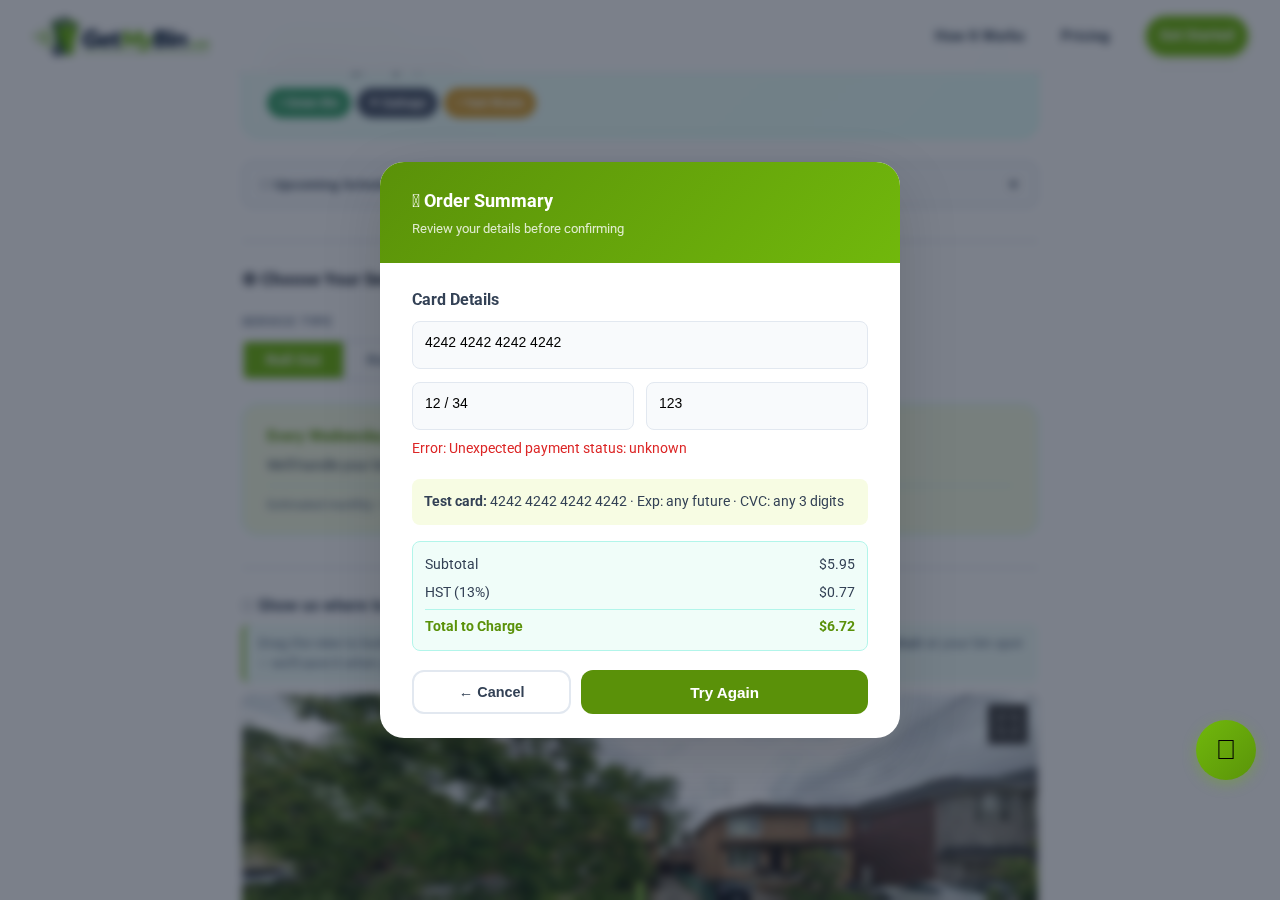
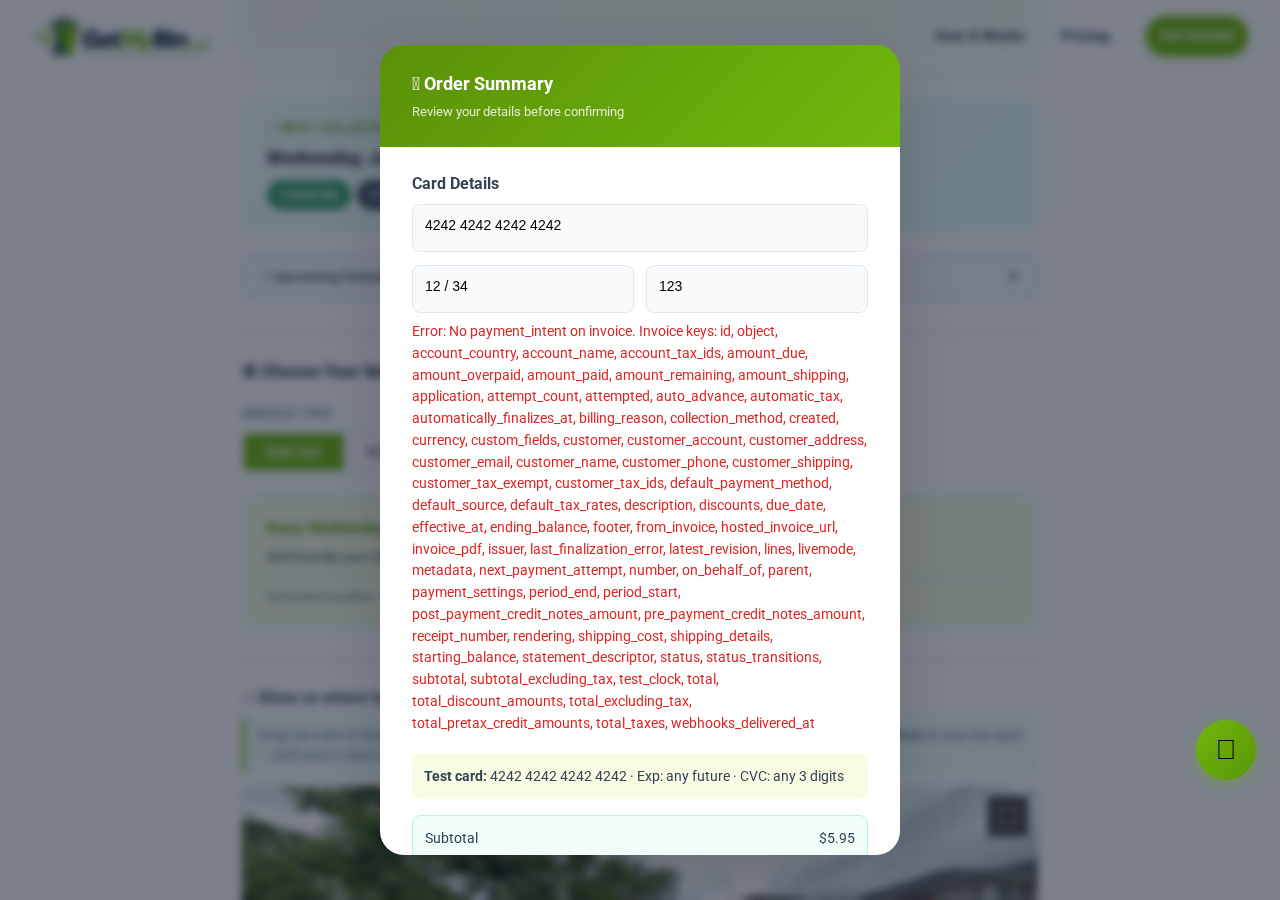
Fix expand: pass as URL query param instead of http_build_query

diff --git a/public_html/api/create-subscription.php b/public_html/api/create-subscription.php
@@ -104,9 +104,7 @@ $subscriptionId = $subscription['id'];
 $invoiceId      = $subscription['latest_invoice']; // string ID
 
 // Step 5: Retrieve invoice to get payment_intent (expand didn't work via form-urlencoded)
-$invoiceResult = stripeRequest('GET', "/invoices/$invoiceId", [
-    'expand[0]' => 'payment_intent',
-]);
+$invoiceResult = stripeRequest('GET', "/invoices/$invoiceId?expand[]=payment_intent");
 
 if ($invoiceResult['code'] >= 400) {
     $errorMsg = $invoiceResult['body']['error']['message'] ?? 'Failed to retrieve invoice';

diff --git a/test-results/full-checkout-flow-Recurring-Roll-Out-desktop/error-context.md b/test-results/full-checkout-flow-Recurring-Roll-Out-desktop/error-context.md
@@ -209,7 +209,7 @@ Call log:
 - iframe
 - iframe
 - iframe
-- text: "Error: Unexpected payment status: unknown"
+- text: "Error: No payment_intent on invoice. Invoice keys: id, object, account_country, account_name, account_tax_ids, amount_due, amount_overpaid, amount_paid, amount_remaining, amount_shipping, application, attempt_count, attempted, auto_advance, automatic_tax, automatically_finalizes_at, billing_reason, collection_method, created, currency, custom_fields, customer, customer_account, customer_address, customer_email, customer_name, customer_phone, customer_shipping, customer_tax_exempt, customer_tax_ids, default_payment_method, default_source, default_tax_rates, description, discounts, due_date, effective_at, ending_balance, footer, from_invoice, hosted_invoice_url, invoice_pdf, issuer, last_finalization_error, latest_revision, lines, livemode, metadata, next_payment_attempt, number, on_behalf_of, parent, payment_settings, period_end, period_start, post_payment_credit_notes_amount, pre_payment_credit_notes_amount, receipt_number, rendering, shipping_cost, shipping_details, starting_balance, statement_descriptor, status, status_transitions, subtotal, subtotal_excluding_tax, test_clock, total, total_discount_amounts, total_excluding_tax, total_pretax_credit_amounts, total_taxes, webhooks_delivered_at"
 - strong: "Test card:"
 - text: "4242 4242 4242 4242 · Exp: any future · CVC: any 3 digits Subtotal $5.95 HST (13%) $0.77 Total to Charge $6.72"
 - button "← Cancel"